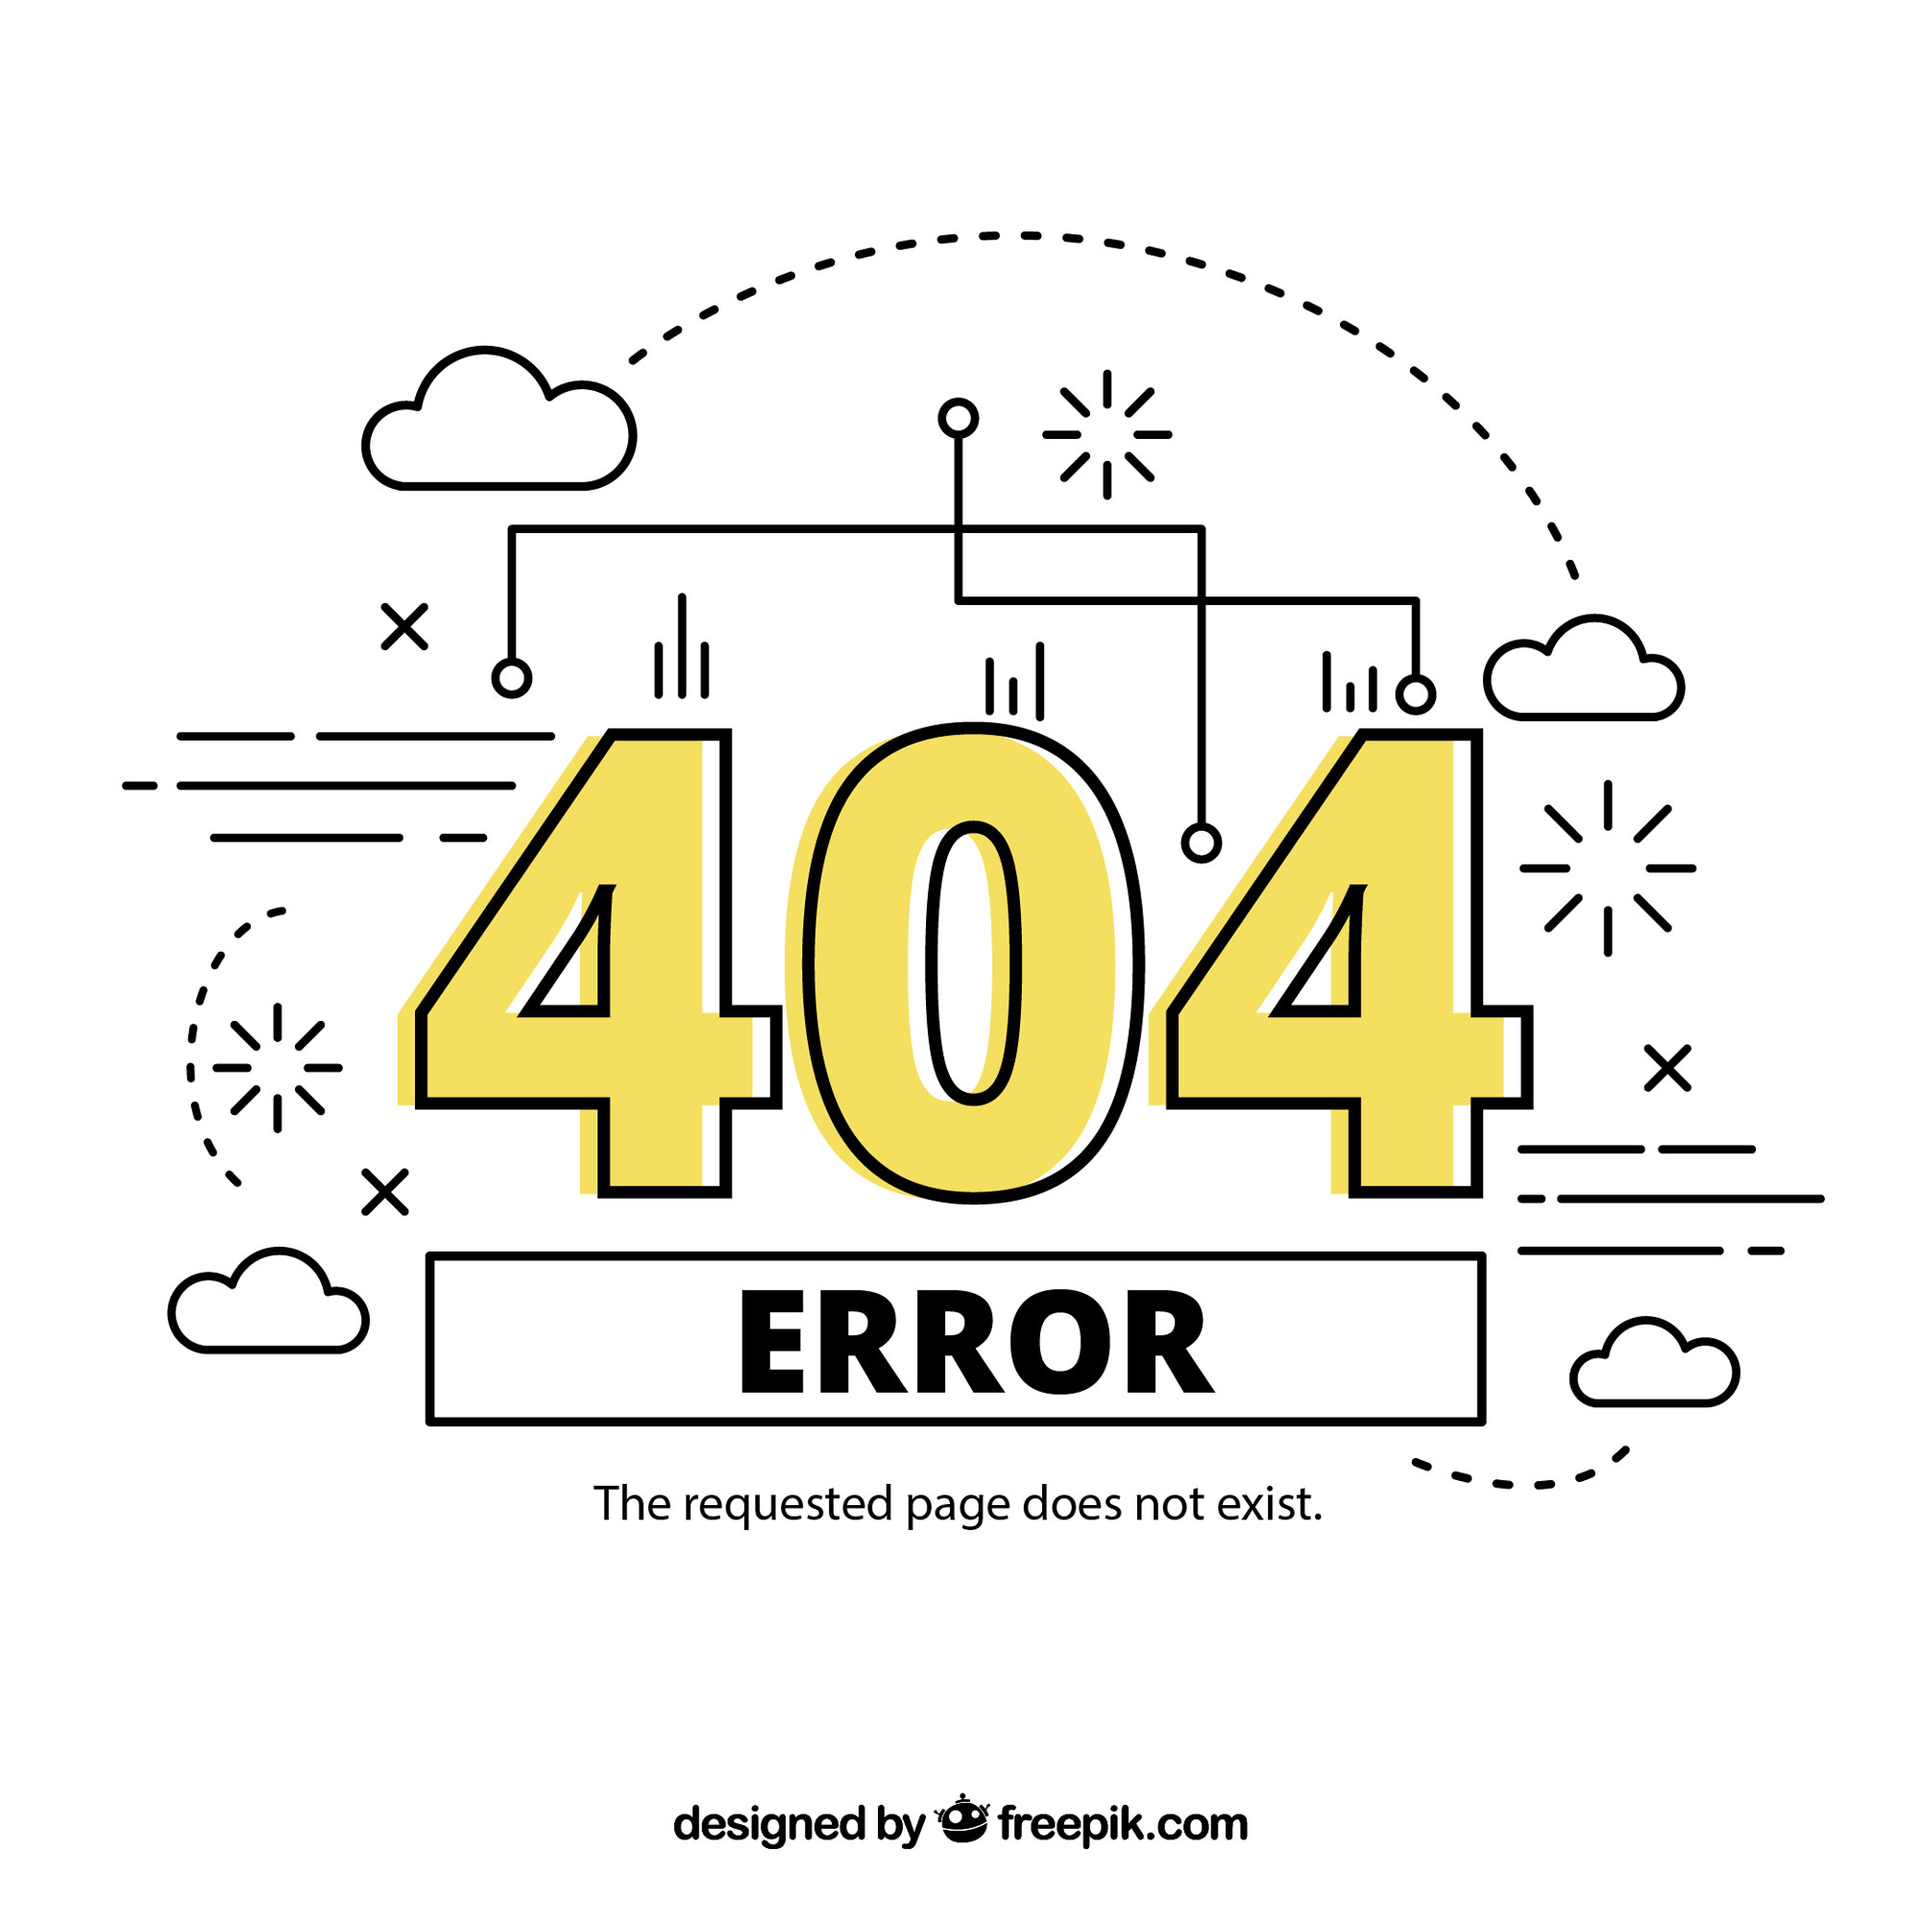
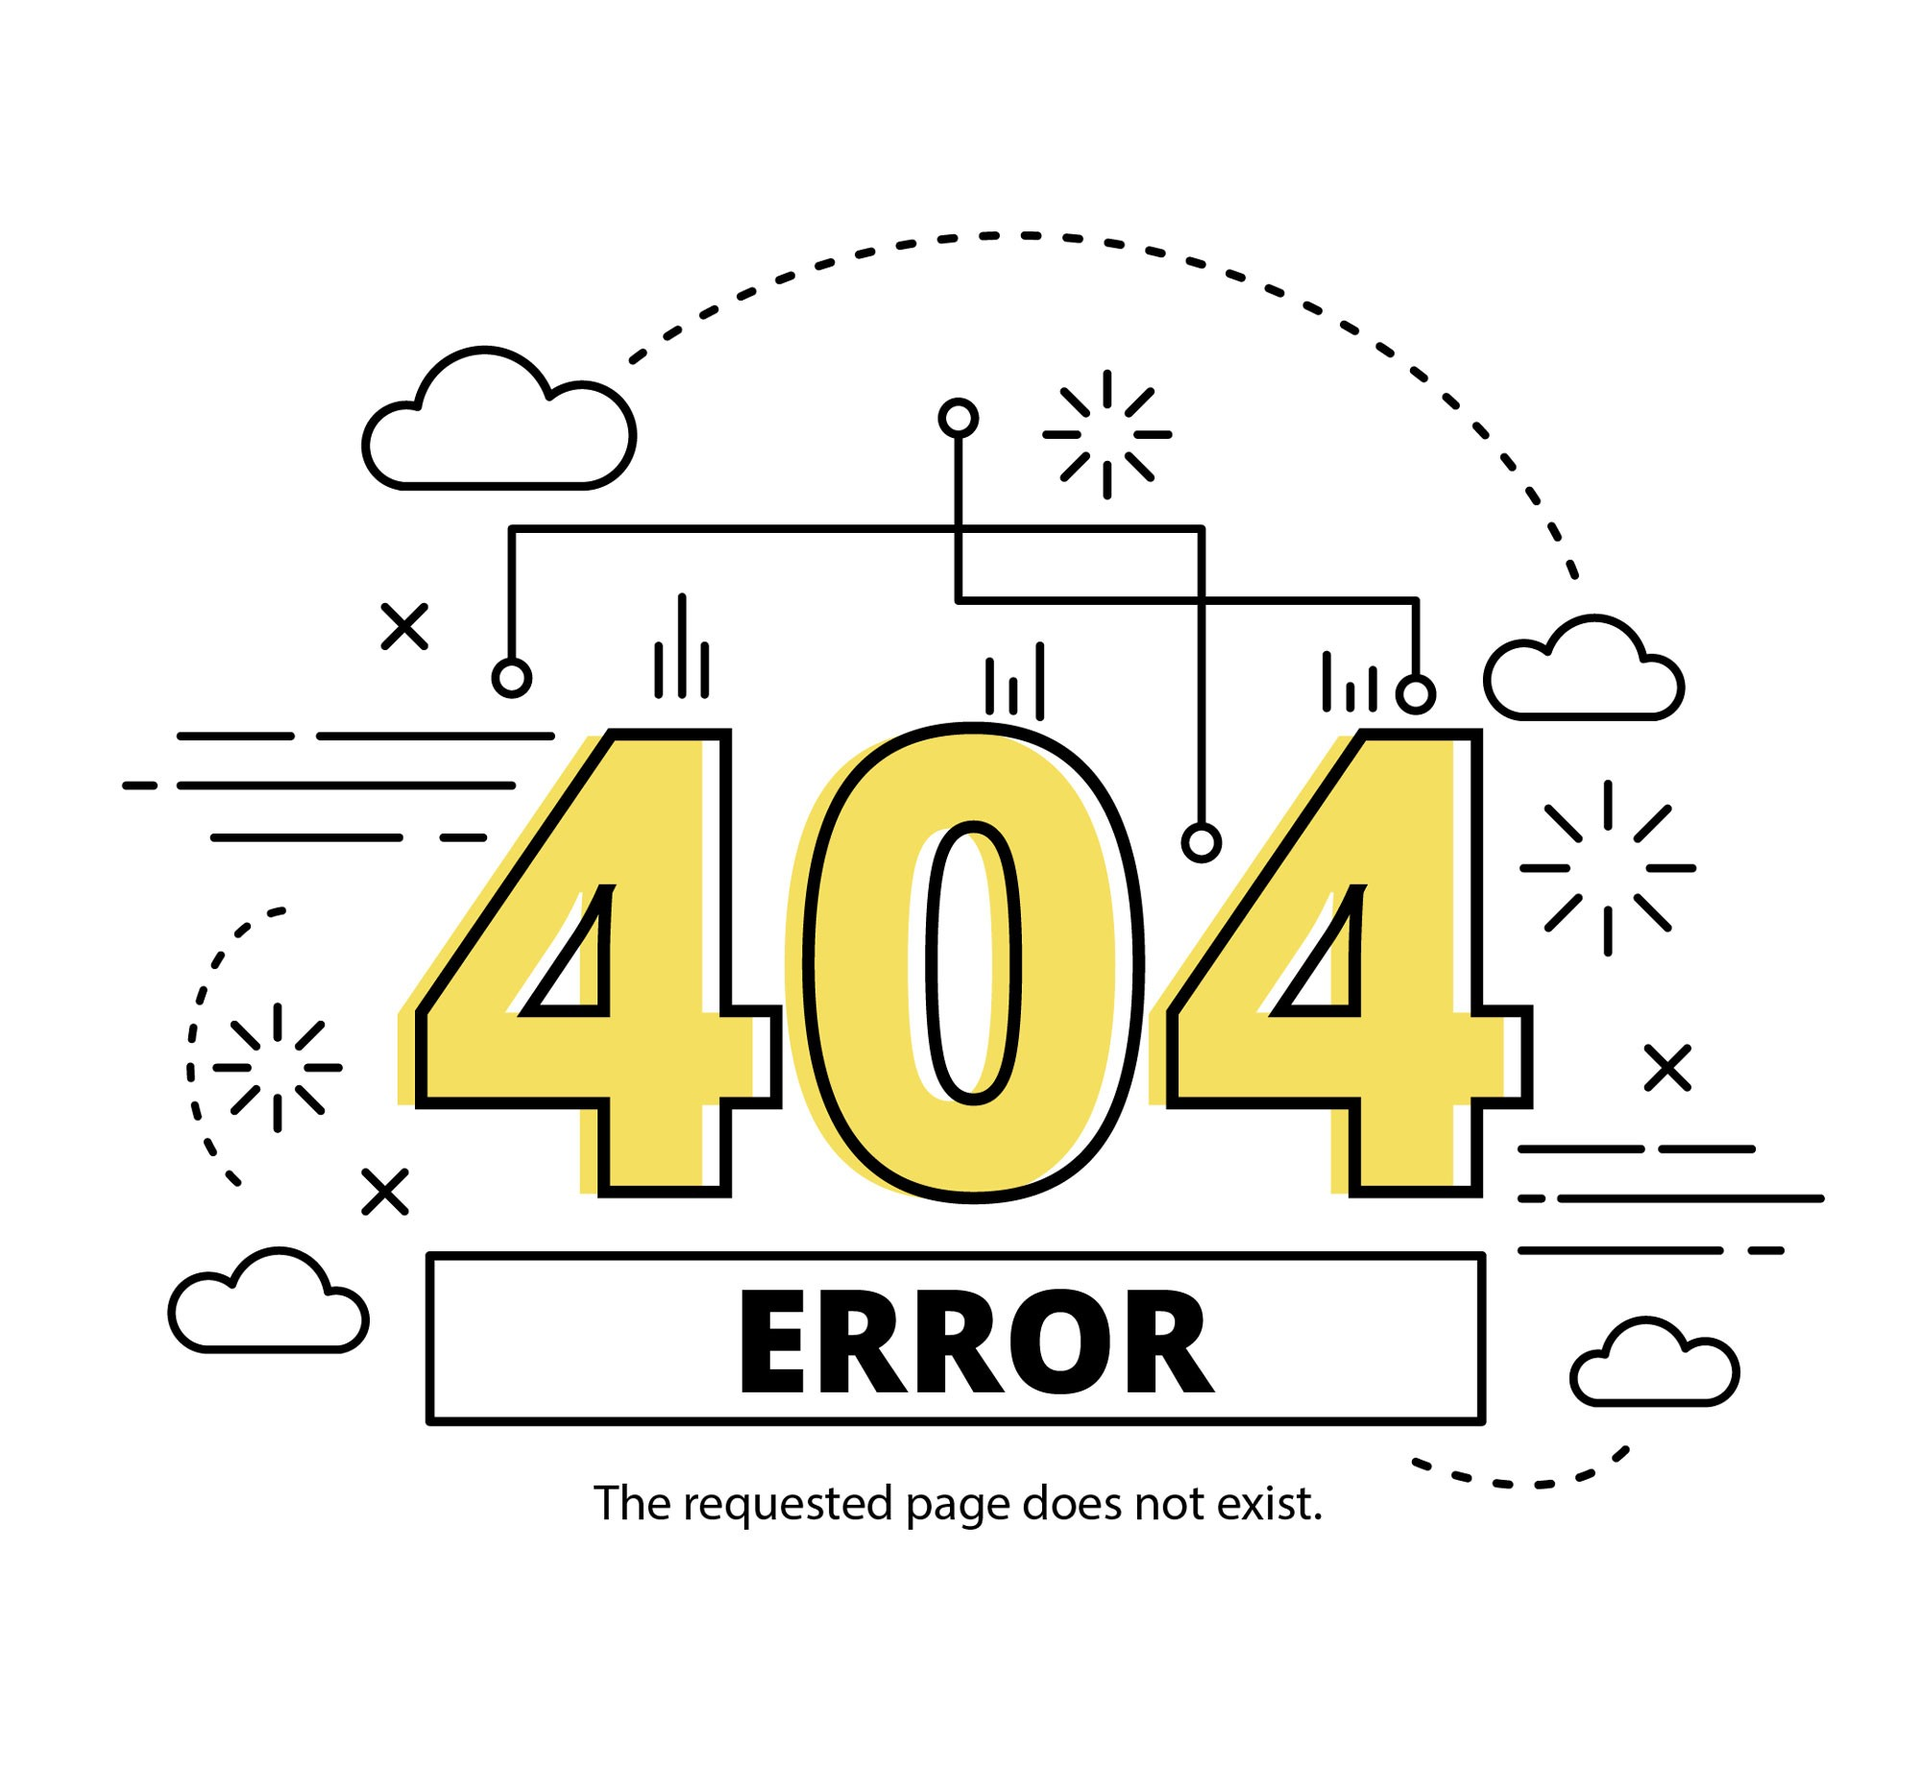
actualiza notfound, arregla bug carousel, agrega delete btn para myquotes

diff --git a/src/components/NotFound.vue b/src/components/NotFound.vue
@@ -1,14 +1,26 @@
 <template>
-    <p class="display-4">404 página en construcción</p>
-    <div class="">
-        <img id="notFound" src="../assets/228438-P28070-739.jpg" alt="">
+
+    <div class="container">
+        <div class="row justify-content-center">
+            <img id="notFound" class="img-fluid mx-auto d-block" src="../assets/228438-P28070-739.jpg" alt="">
+        </div>
+        <div class="row  justify-content-center">
+            <div class="col-5 text-center">
+            <router-link to="/"><button id="comeBack" class="btn btn-warning mb-5 mx-auto p-3 px-5">Comeback</button></router-link>
+            </div>
+        </div>
     </div>
 
 <!--     Imagen de <a href="https://www.freepik.es/vector-gratis/error-404-hecho-mano_1587605.htm#page=2&query=404%20not%20found&position=13&from_view=search&track=ais">Freepik</a> -->
 </template>
 
 <style>
-#notFound {
-    height: 80vh;
+#notFound{
+height: 400px;
+width: auto;
+}
+
+#comeBack{
+color: #fff;
 }
 </style>

diff --git a/src/components/QuotesTable.vue b/src/components/QuotesTable.vue
@@ -27,7 +27,7 @@
                 <td class="text-center">
                     <button class="btn btn-modificar"  id="modificar" type="button">&#9998;</button>
                 </td>
-                <td class="text-center"><button class="btn btn-modificar" id="borrar" type="button" @click="deleteTableQuote(quote.author)">&#128465;</button></td>
+                <td class="text-center"><button class="btn btn-modificar" id="borrar" type="button" @click="deleteTableQuote(quote.text)">&#128465;</button></td>
             </tr>
         </tbody>
         </table>
@@ -37,7 +37,7 @@
     
     <script>
     import {mapState, mapMutations} from 'vuex';
-    import FadeLoader from 'vue-spinner/src/FadeLoader.vue'
+/*     import FadeLoader from 'vue-spinner/src/FadeLoader.vue' */
     
     export default {
       name: 'AdminTable',
@@ -47,11 +47,8 @@
       methods: {
         ...mapMutations(['deleteTableQuote']),
 
-      },
-
-
-       
-        
+      }
+      
       }
 
 

diff --git a/src/components/ExploreQuotes.vue b/src/components/ExploreQuotes.vue
@@ -1,10 +1,6 @@
 <template>
-<!-- <div v-if="!allQuotes" class="spinner-border" role="status">
+<div v-if="!allQuotes" class="spinner-border" role="status">
   <span class="visually-hidden">Loading...</span>
-</div> -->
-
-<div>
-  <button @click="mostrarQuotes">sdafd</button>
 </div>
 
 <div id="carouselExample" class="carousel slide carousel-dark">
@@ -139,9 +135,6 @@ export default {
   },
   methods: {
     ...mapMutations(['tableQuotes','saveEmailQuote']),
-    mostrarQuotes(){
-      console.log(this.allQuotes);
-    },
 
     sendEmail() {
       let selectedQuote = `${this.emailQuote.text}\n ${this.emailQuote.author}`;
@@ -160,7 +153,11 @@ export default {
         });
     }
 
-  }
+  },
+  mounted() {
+      let slide = document.querySelector('.carousel-item');
+      slide.classList.add('active')
+    }
 
 
          

diff --git a/src/views/HomeView.vue b/src/views/HomeView.vue
@@ -4,9 +4,9 @@
         <div class="row px-5 pt-5 px-md-0 text-center align-items-center">
           <h1 class="title display-1 mt-5 pt-5">Oh My Quote</h1>
         </div>
-        <div class="row px-5  px-md-0 text-center align-items-center">
+        <div class="row px-5  px-md-0 text-center  mx-auto p-3 px-5">
           <p class="mainText display-6 mb-4"> need inspiration?</p> 
-          <router-link to="/ExploreView" ><button id="startBtn" class="btn btn-warning  mx-auto p-3 px-5">Start</button></router-link>
+          <router-link to="/ExploreView" ><button id="startBtn" class="btn btn-warning mx-auto p-3 px-5 text-center">Start</button></router-link>
         </div>
       </div>
     </main>

diff --git a/src/store/index.js b/src/store/index.js
@@ -20,11 +20,13 @@ export default createStore({
       alert("Quote Saved")
     },
     deleteTableQuote(state,payload){
-      state.myQuotes = state.myQuotes.filter((element)=>{
-        return element.author != payload.author;
-    });
+      let newMyQuotes = state.myQuotes.filter((element)=>(
+        element.text !== payload
+      ));
+      state.myQuotes = newMyQuotes;
     console.log(state.myQuotes)
     },
+
     saveEmailQuote(state,payload){
       state.emailQuote = payload;
     }
